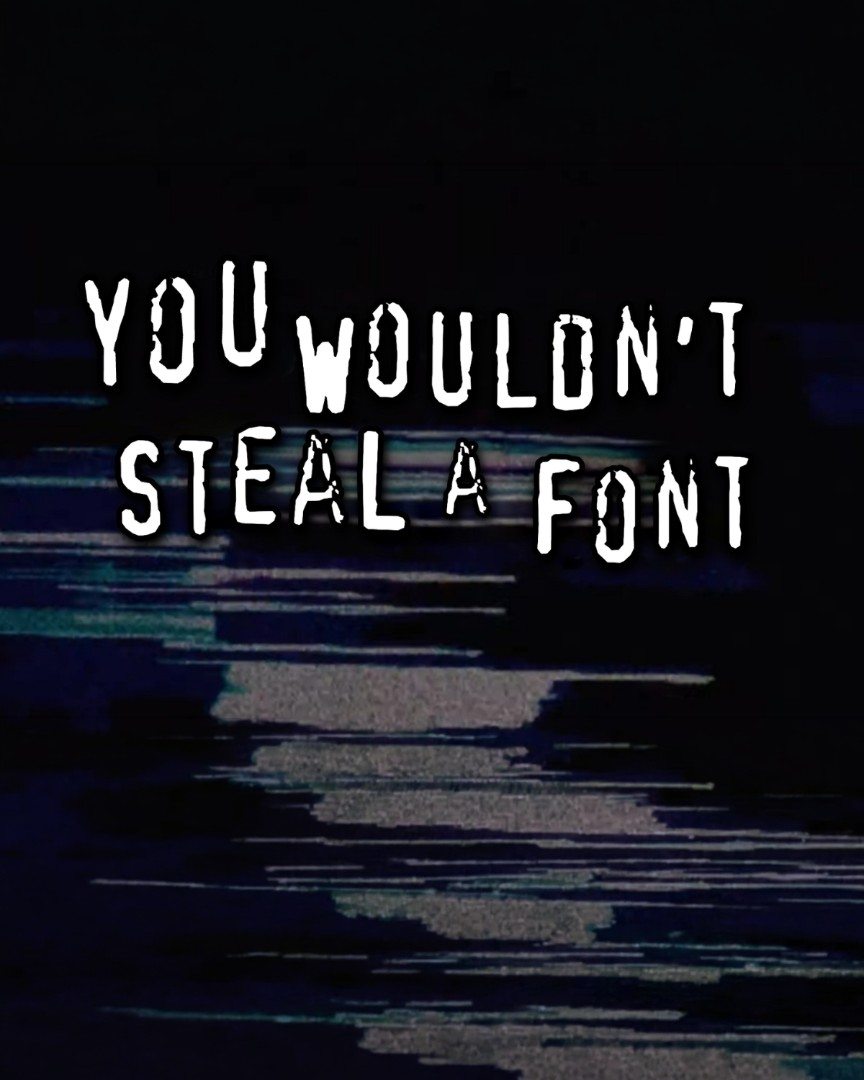
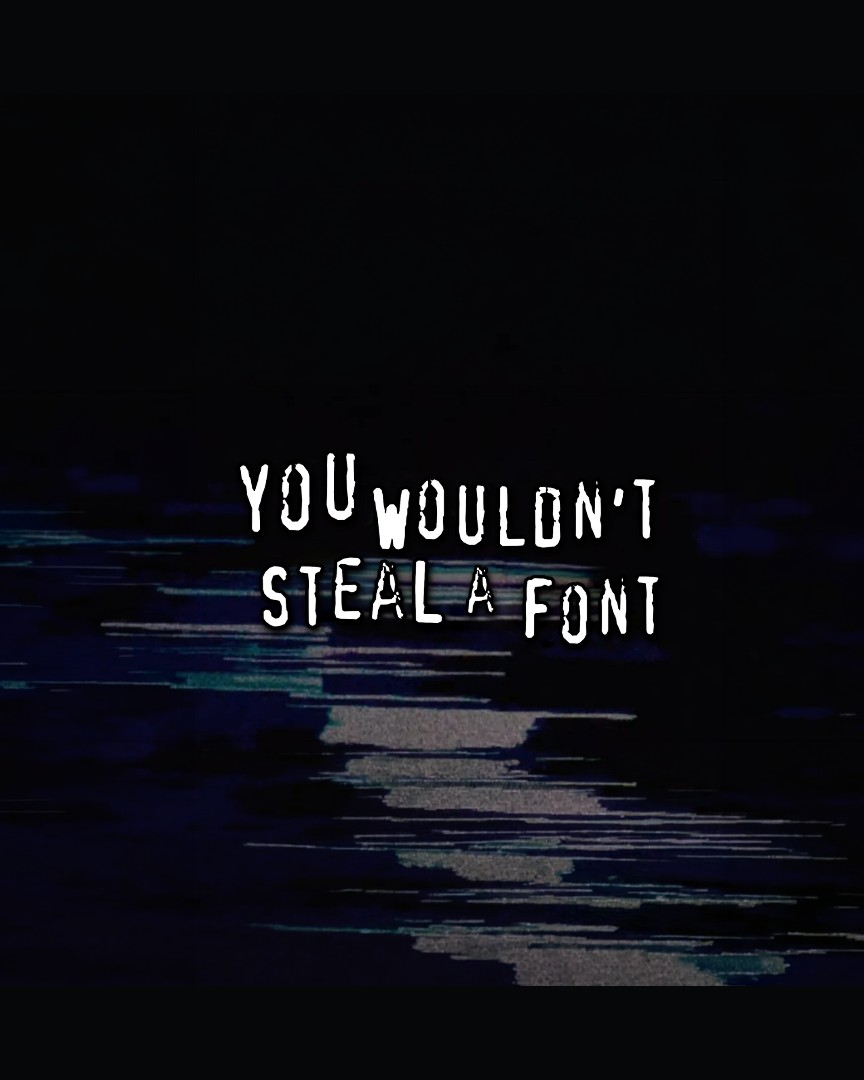
Balance Sign-up layout (content moved up) + steal-font poster never crops
- Auth screen top-aligned with padding so logo/title sit balanced above the buttons
- reprocess 'you wouldnt steal a font' as contain-on-dark (full text + margins),
  survives the taller swipe-card crop

diff --git a/src/screens/onboarding.jsx b/src/screens/onboarding.jsx
@@ -193,7 +193,7 @@ export function Auth({ nav }) {
   return (
     <>
       <StatusBar />
-      <div className="body pad center" style={{ textAlign: 'center' }}>
+      <div className="body pad" style={{ textAlign: 'center', display: 'flex', flexDirection: 'column', alignItems: 'center', justifyContent: 'flex-start', paddingTop: 'clamp(64px, 14svh, 130px)' }}>
         <motion.div className="stack" style={{ gap: 22, width: '100%', alignItems: 'center' }}
           initial="h" animate="s" variants={{ s: { transition: { staggerChildren: 0.1 } } }}>
           <motion.div variants={fadeUp} style={{ width: 150, height: 150, borderRadius: 34, background: 'var(--blue)', display: 'grid', placeItems: 'center', boxShadow: '0 24px 60px -20px rgba(31,68,255,.6)' }}>
